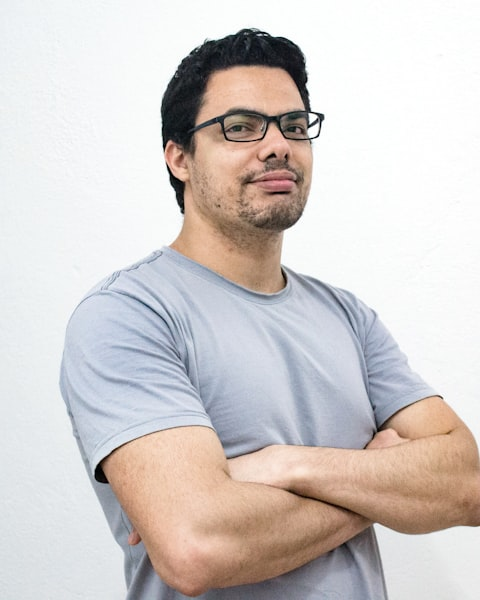
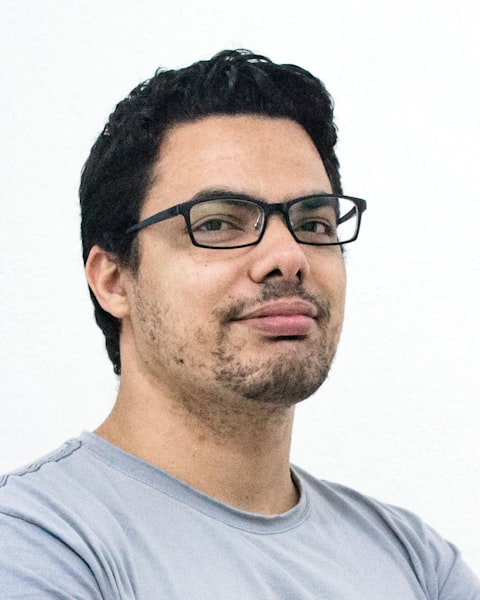
Fix Dr. Okafor portrait: use facearea crop to show face instead of arms

diff --git a/web/themes/custom/meridian_theme/css/meridian.css b/web/themes/custom/meridian_theme/css/meridian.css
@@ -544,13 +544,13 @@ p { margin: 0 0 1.1em; }
   width: 240px;
   height: 300px;
   object-fit: cover;
-  object-position: center top;
+  object-position: center center;
   display: block;
 }
 
 /* In teaser the portrait still bleeds full-width like any other card image */
 .node--view-mode-teaser .node-featured-image--portrait img {
-  object-position: center top;
+  object-position: center center;
 }
 
 /* Clearfix so card footer clears the float */
